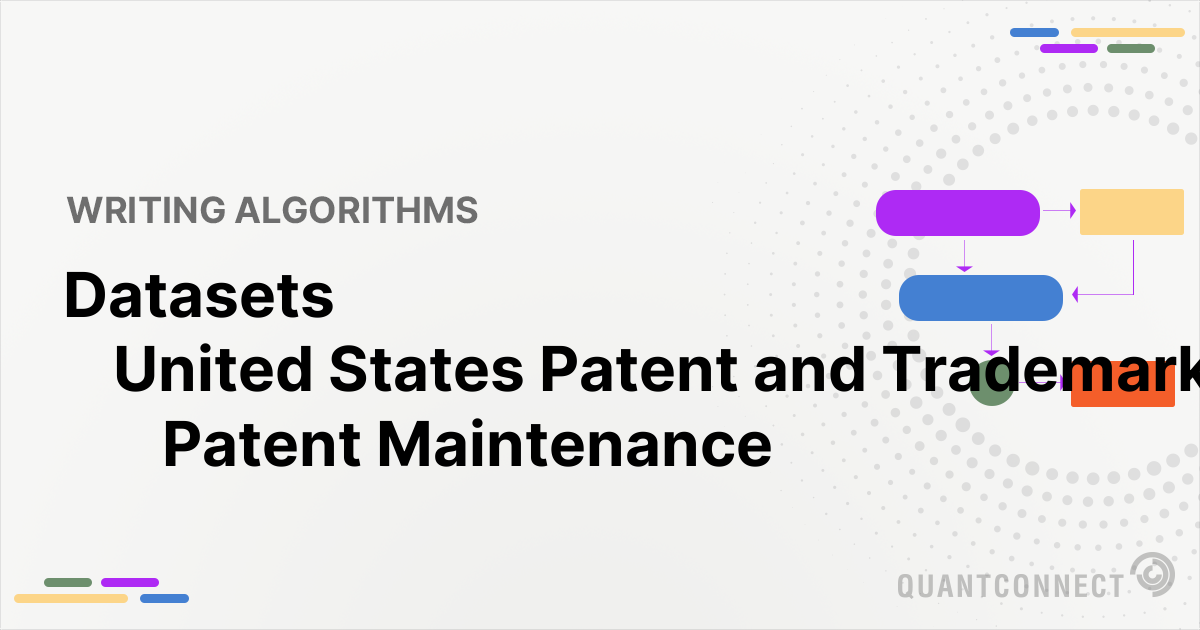
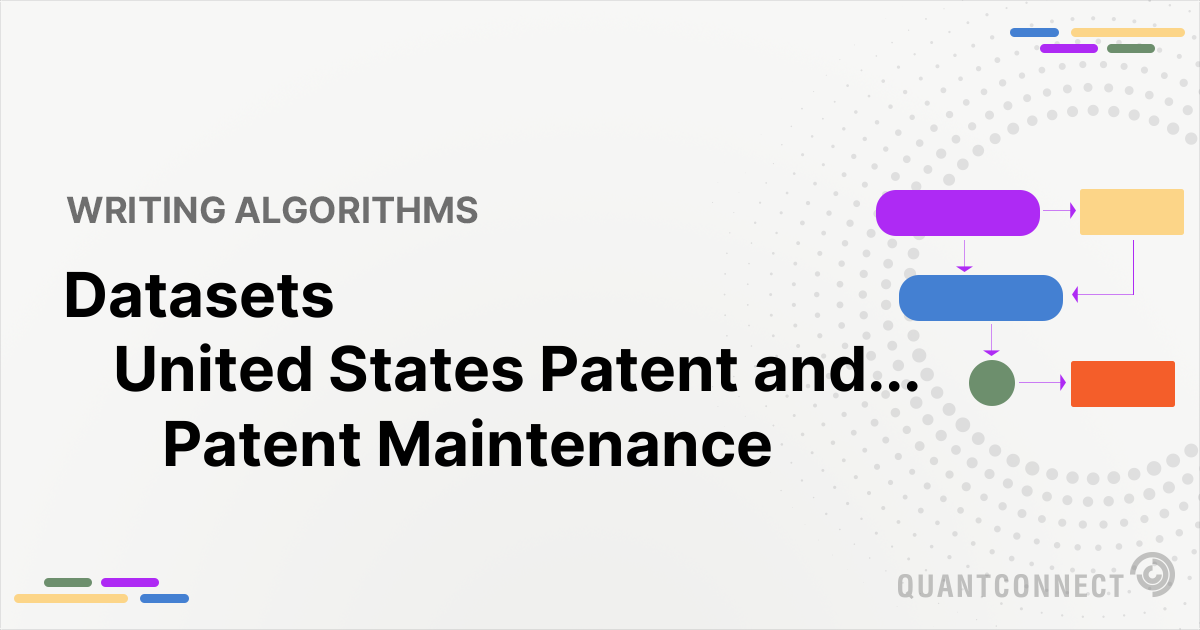
Cut long SEO image titles with an ellipsis before the artwork
A title that overlaps the artwork on the right of the template is now cut at
a word boundary and ends with "...". Lines below the artwork keep the full
canvas width.

Changed region(s): [[0.7092, 0.5429, 1.0, 0.6333]]

diff --git a/code-generators/seo-image-creator.py b/code-generators/seo-image-creator.py
@@ -62,7 +62,10 @@ class ImageGenerator:
         self.fonts = fonts
         self.x = 63
         self.y = 256
-        self.max_text_width = self.canvas.size[0]-self.x*2
+        # Left edge and bottom of the artwork on the right of every template. A line that
+        # overlaps the artwork band is cut before the artwork, the lines below it can run wider.
+        self.artwork_x, self.artwork_bottom = 960, 400
+        self.max_x = self.canvas.size[0] - self.x
 
     def AddTextToImage(self, lines, outputfile):
         font = self.fonts[max(0, len(lines) - 4)]
@@ -72,9 +75,25 @@ class ImageGenerator:
         I1 = ImageDraw.Draw(image)
         for i, line in enumerate(lines):
             xy = (self.x + i * dx, self.y + i * dy)
-            I1.text(xy, line, fill='#000', font=font)
+            max_x = self.artwork_x if xy[1] < self.artwork_bottom else self.max_x
+            I1.text(xy, self._fit(line, font, max_x - xy[0]), fill='#000', font=font)
         image.save(f'{outputfile}.png')
         image.close()
+
+    def _fit(self, text, font, max_width):
+        """Truncates the text with '...' so it fits in max_width, at a word boundary when possible."""
+        if font.getlength(text) <= max_width:
+            return text
+        words = text.split(' ')
+        while len(words) > 1:
+            words.pop()
+            candidate = ' '.join(words) + '...'
+            if font.getlength(candidate) <= max_width:
+                return candidate
+        word = words[0]
+        while len(word) > 1 and font.getlength(word + '...') > max_width:
+            word = word[:-1]
+        return word + '...'
 
 def _generate_lean_cli_cheat_sheet(location):
     """Generate a 1200x630 LEAN CLI API cheat sheet image."""
